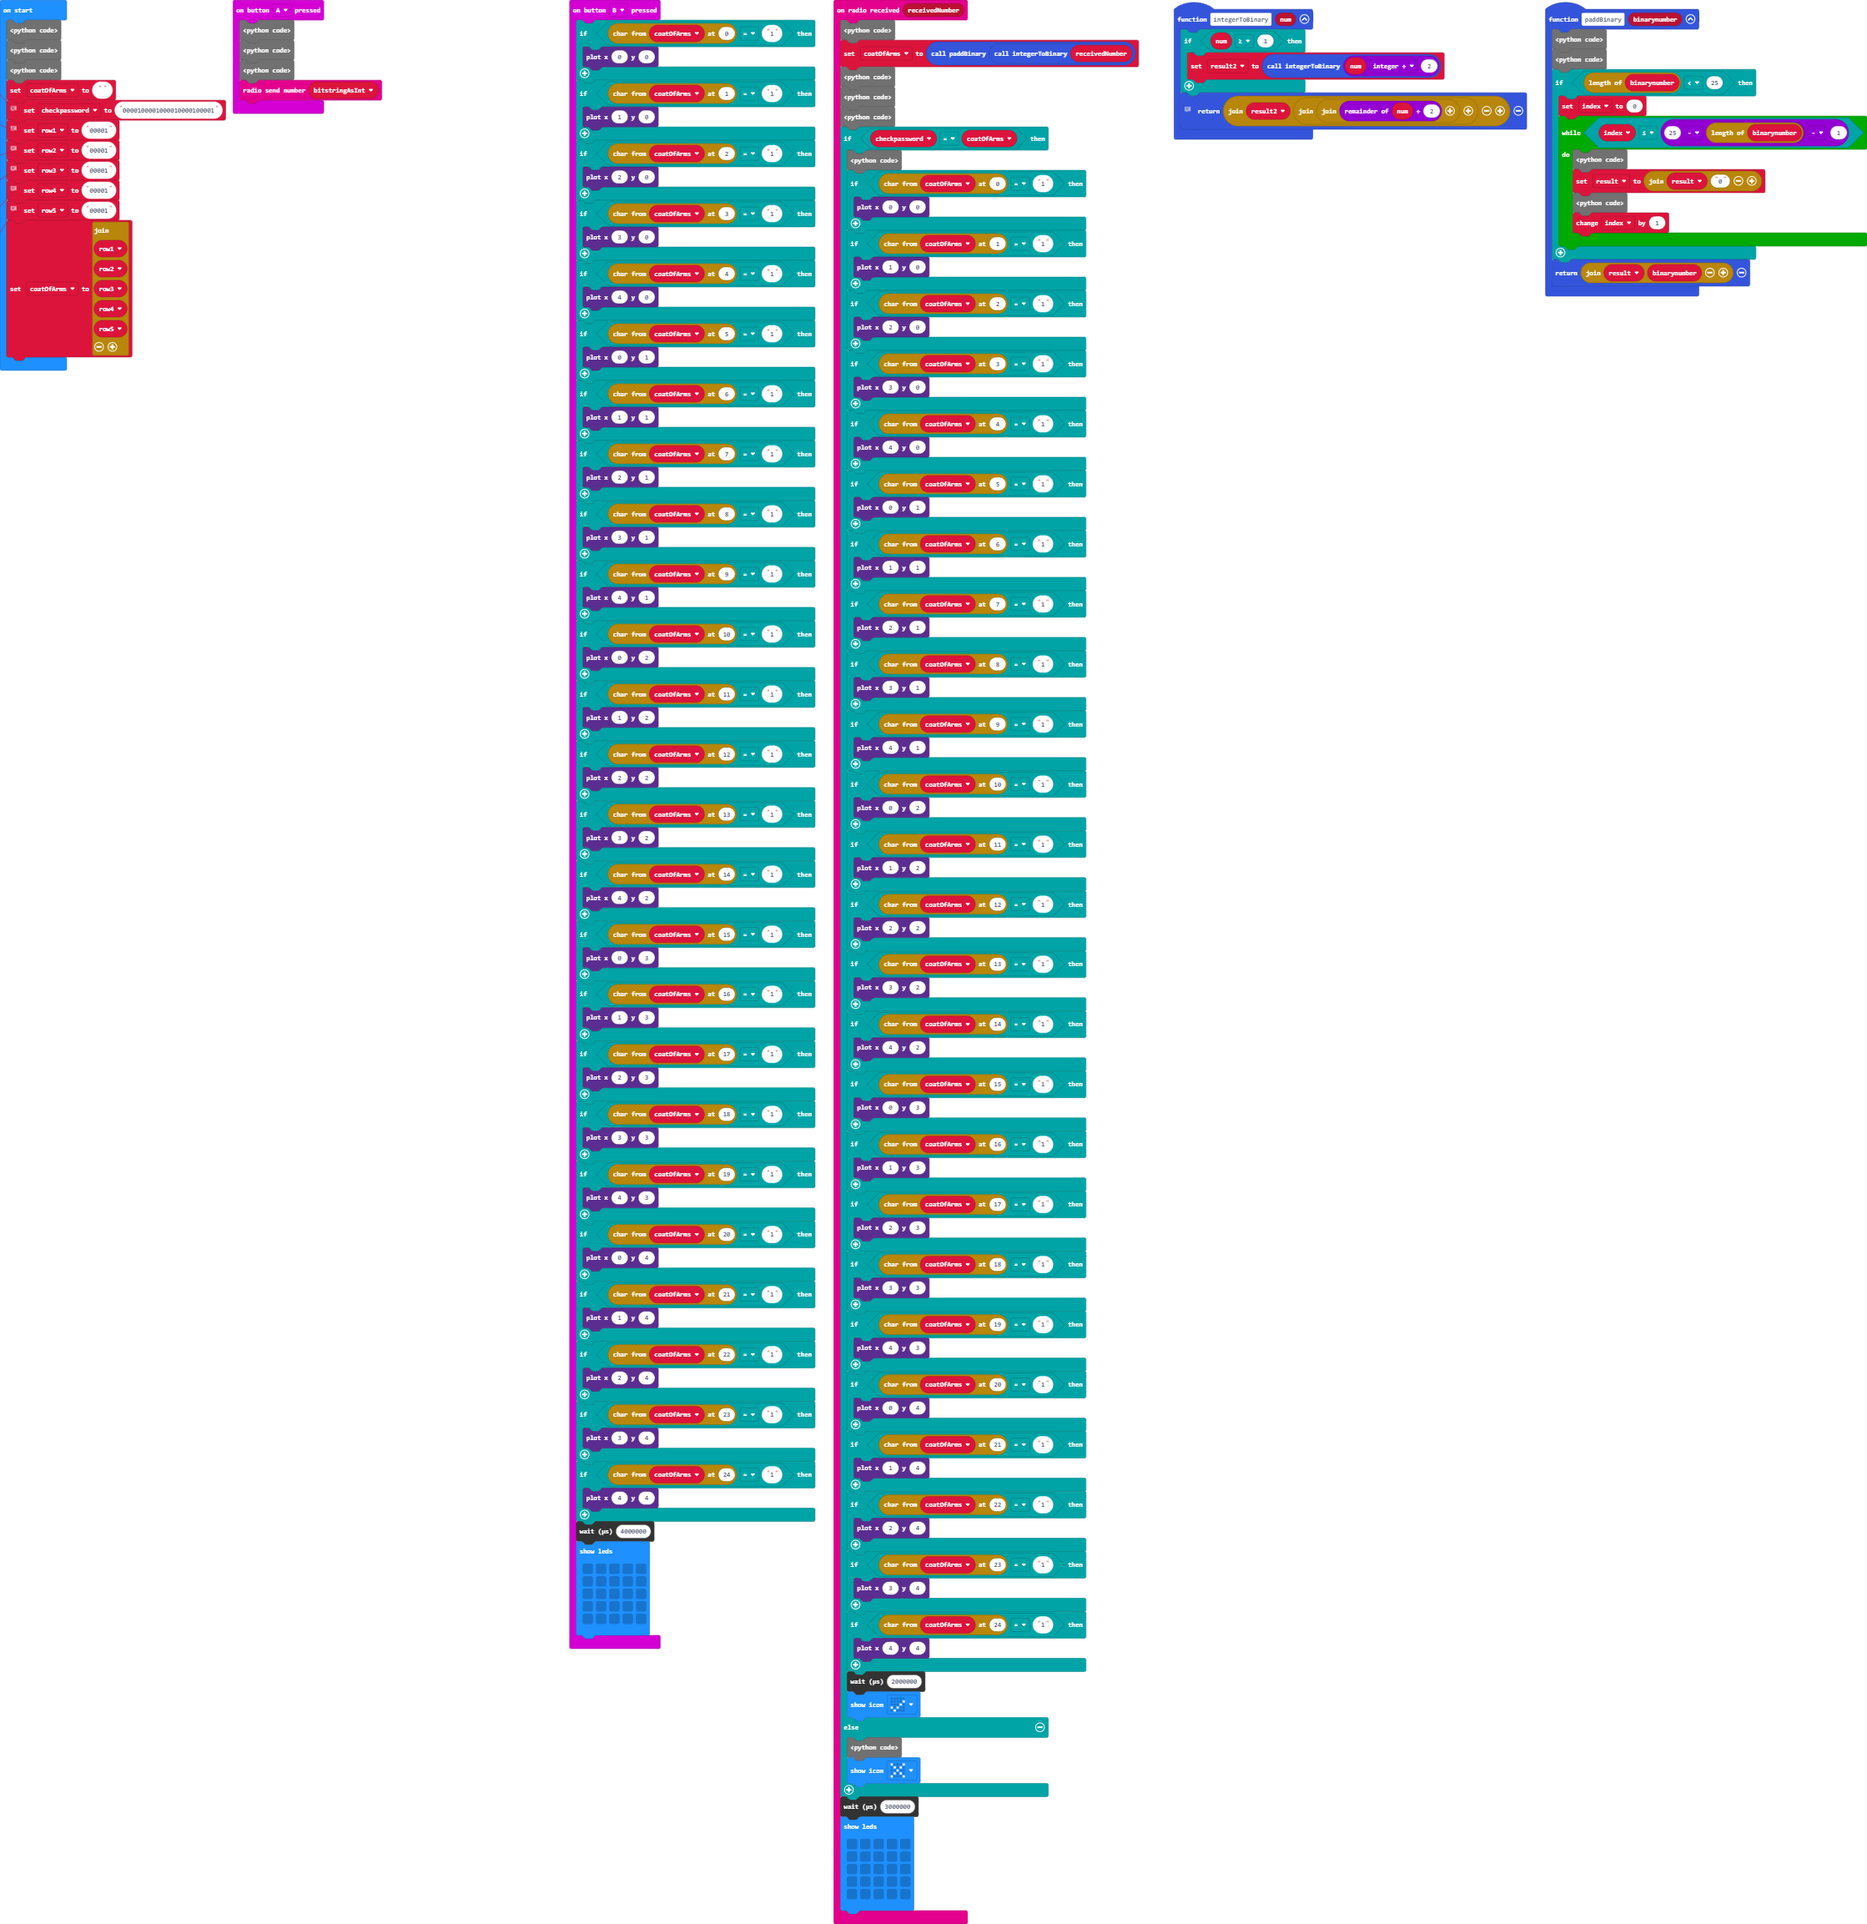
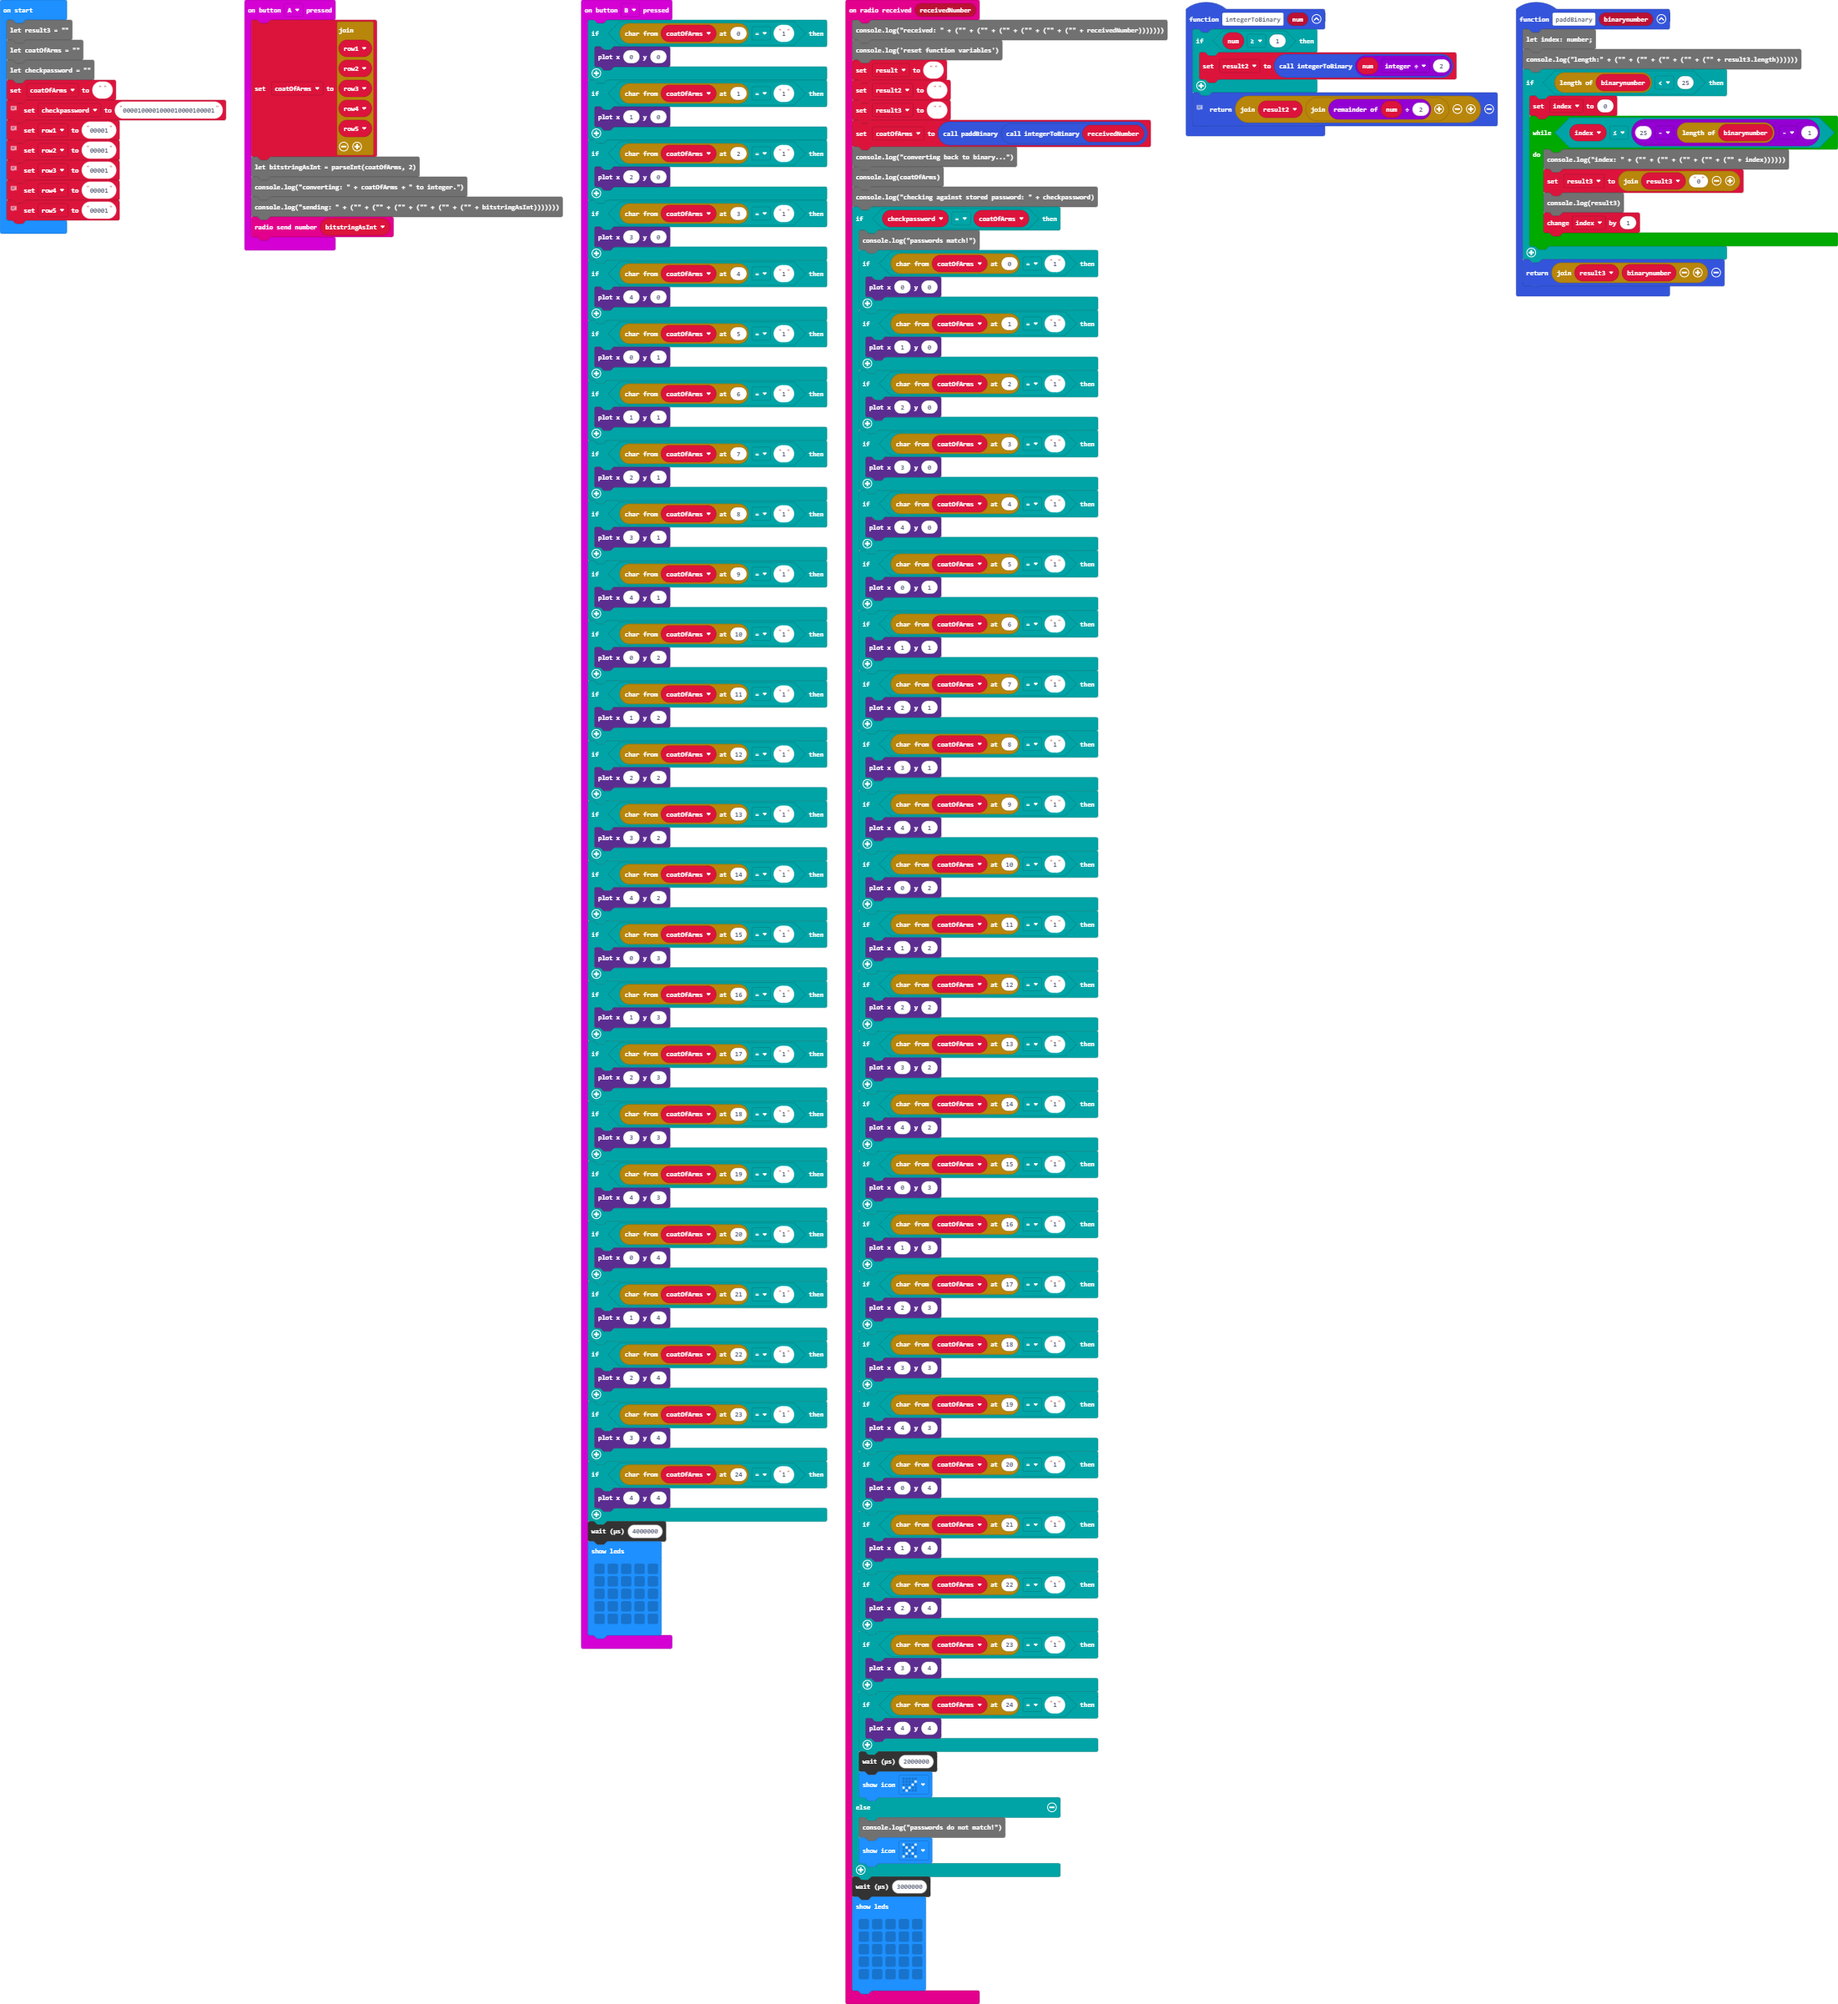
updated functions to reset on every send

Changed region(s): [[0.0, 0.0, 1.0, 1.0]]

diff --git a/main.ts b/main.ts
@@ -1,6 +1,10 @@
 radio.onReceivedNumber(function (receivedNumber) {
     console.log("received: " + ("" + ("" + ("" + ("" + ("" + ("" + receivedNumber)))))))
-coatOfArms = paddBinary(integerToBinary(receivedNumber))
+console.log('reset function variables')
+result = ""
+    result2 = ""
+    result3 = ""
+    coatOfArms = paddBinary(integerToBinary(receivedNumber))
     console.log("converting back to binary...")
 console.log(coatOfArms)
 console.log("checking against stored password: " + checkpassword)
@@ -104,6 +108,7 @@ function integerToBinary (num: number): any {
     return "" + result2 + ("" + num % 2)
 }
 input.onButtonPressed(Button.A, function () {
+    coatOfArms = "" + row1 + row2 + row3 + row4 + row5
     let bitstringAsInt = parseInt(coatOfArms, 2)
 console.log("converting: " + coatOfArms + " to integer.")
 console.log("sending: " + ("" + ("" + ("" + ("" + ("" + ("" + bitstringAsInt)))))))
@@ -196,33 +201,38 @@ input.onButtonPressed(Button.B, function () {
 })
 function paddBinary (binarynumber: string) {
     let index: number;
-console.log("length:" + ("" + ("" + ("" + ("" + ("" + result.length))))))
+console.log("length:" + ("" + ("" + ("" + ("" + ("" + result3.length))))))
 if (binarynumber.length < 25) {
         index = 0
         while (index <= 25 - binarynumber.length - 1) {
             console.log("index: " + ("" + ("" + ("" + ("" + ("" + index))))))
-result = "" + result + "0"
-            console.log(result)
+result3 = "" + result3 + "0"
+            console.log(result3)
 index += 1
         }
     }
-    return "" + result + binarynumber
+    return "" + result3 + binarynumber
 }
 let result2 = ""
-let checkpassword = ""
-let coatOfArms = ""
 let result = ""
+let row5 = ""
+let row4 = ""
+let row3 = ""
+let row2 = ""
+let row1 = ""
+let result3 = ""
+let coatOfArms = ""
+let checkpassword = ""
 coatOfArms = ""
 // Set your accepted coat of arms password here
 checkpassword = "0000100001000010000100001"
 // This is the first row of the coat of arms password you want to test against the accepted one
-let row1 = "00001"
+row1 = "00001"
 // This is the second row of the test password
-let row2 = "00001"
+row2 = "00001"
 // This is the third row of the test password
-let row3 = "00001"
+row3 = "00001"
 // This is the fourth row of the test password
-let row4 = "00001"
+row4 = "00001"
 // This is the fifth row of the test password
-let row5 = "00001"
-coatOfArms = "" + row1 + row2 + row3 + row4 + row5
+row5 = "00001"
